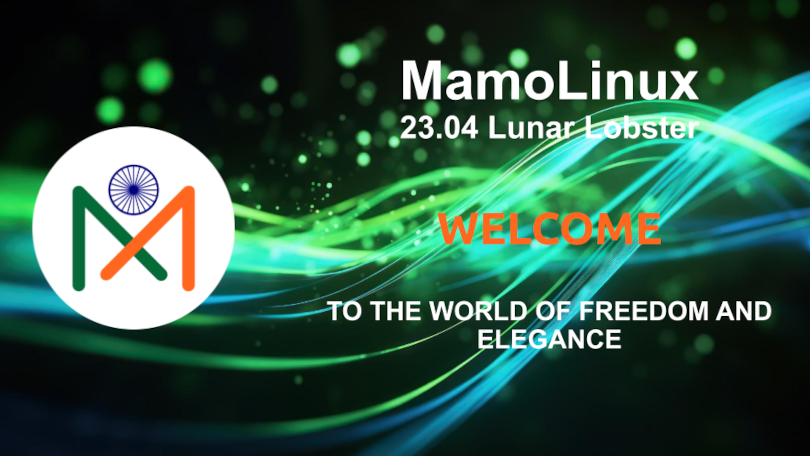
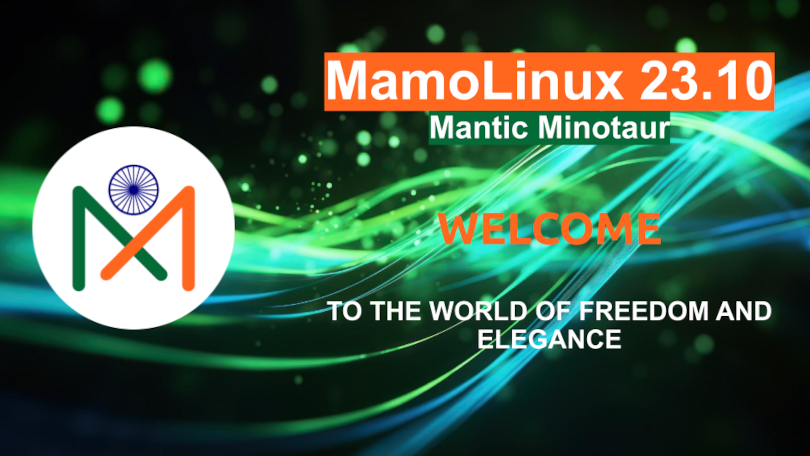
Update slides and version to mantic
- Update version on welcome slide
- Update version in branding
- Set slide interval to 15 seconds

Changed region(s): [[0.4012, 0.0921, 0.9568, 0.3377]]

diff --git a/mamolinux/branding/mamolinux/show.qml b/mamolinux/branding/mamolinux/show.qml
@@ -6,7 +6,7 @@ Presentation
     id: presentation
 
     Timer {
-        interval: 10000
+        interval: 15000
         running: true
         repeat: true
         onTriggered: presentation.goToNextSlide()
